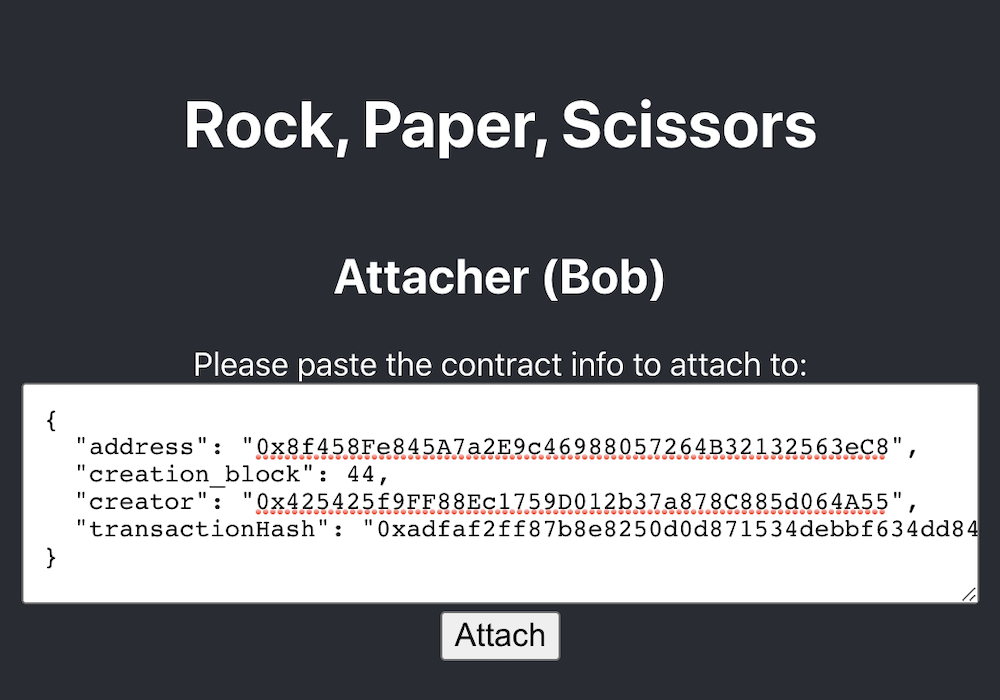
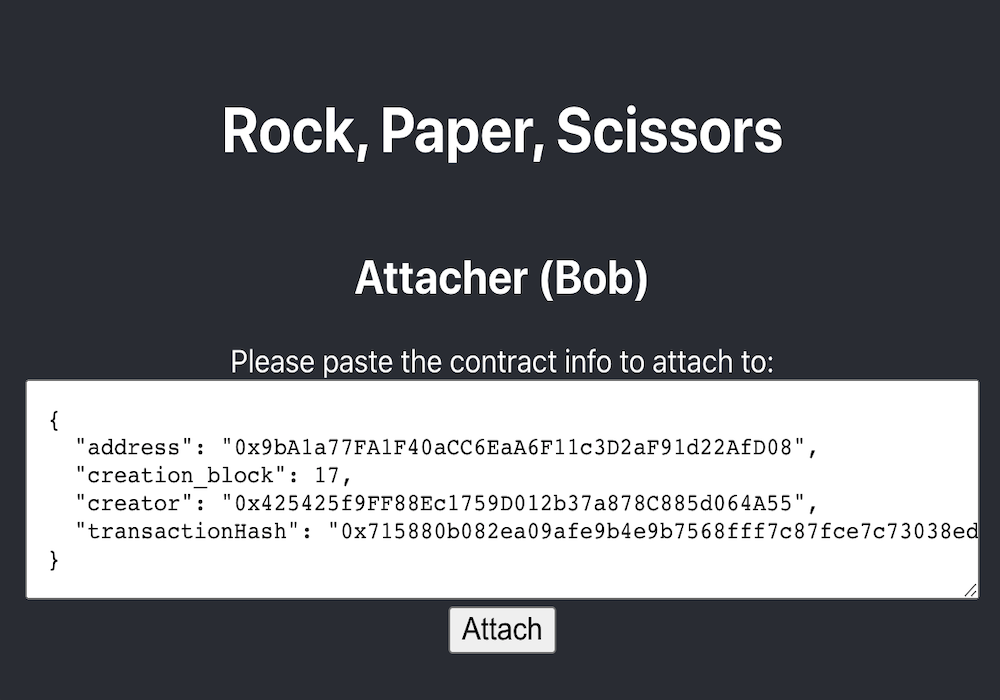
tut-8: no spellcheck on contract textarea

diff --git a/examples/tut-8/views/AttacherViews.js b/examples/tut-8/views/AttacherViews.js
@@ -23,7 +23,7 @@ exports.Attach = class extends React.Component {
       <div>
         Please paste the contract info to attach to:
         <br />
-        <textarea
+        <textarea spellcheck="false"
           className='ContractInfo'
           onChange={(e) => this.setState({ctcInfoStr: e.currentTarget.value})}
           placeholder='{}'
